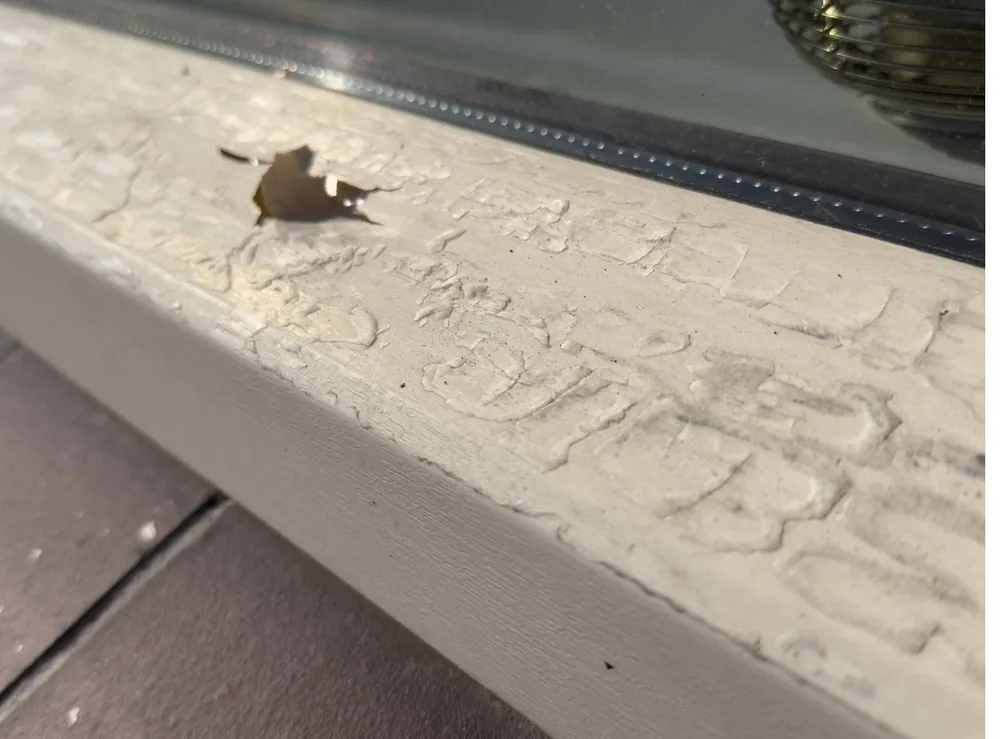
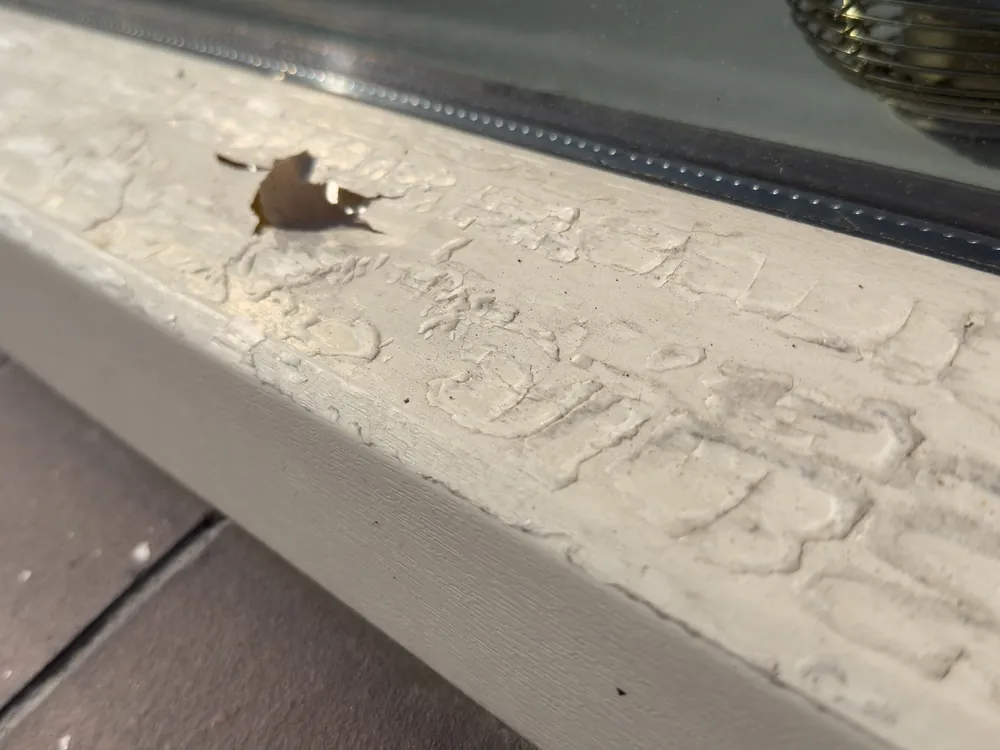
Voor- en nafoto van de dorpel op elkaar gelegd

diff --git a/kozijnherstel.html b/kozijnherstel.html
@@ -133,7 +133,7 @@
         <span class="ba-label">Voor</span>
         <picture>
           <source srcset="/images/kozijn-beschadigd.webp" type="image/webp">
-          <img src="/images/kozijn-beschadigd.jpg" alt="Kunststof dorpel waarvan de folie is verkleurd, gebarsten en op een plek losgetrokken" width="1000" height="739" loading="lazy" decoding="async">
+          <img src="/images/kozijn-beschadigd.jpg" alt="Kunststof dorpel waarvan de folie is verkleurd, gebarsten en op een plek losgetrokken" width="1000" height="750" loading="lazy" decoding="async">
         </picture>
         <figcaption>De folie is dof en gebarsten en laat op de hoeken los. Het kozijnprofiel zelf is nog gaaf.</figcaption>
       </figure>
@@ -141,7 +141,7 @@
         <span class="ba-label">Na</span>
         <picture>
           <source srcset="/images/kozijn-hersteld.webp" type="image/webp">
-          <img src="/images/kozijn-hersteld.jpg" alt="Dezelfde dorpel na herstel, met een gladde egale folielaag en zichtbare structuur" width="1000" height="739" loading="lazy" decoding="async">
+          <img src="/images/kozijn-hersteld.jpg" alt="Dezelfde dorpel na herstel: strak en egaal, met de houtnerf van de nieuwe folie" width="1000" height="750" loading="lazy" decoding="async">
         </picture>
         <figcaption>Nieuwe folie, strak aangebracht tot in de profielrand — inclusief de oorspronkelijke structuur.</figcaption>
       </figure>

diff --git a/src/pages/kozijnherstel.html b/src/pages/kozijnherstel.html
@@ -138,7 +138,7 @@
         <span class="ba-label">Voor</span>
         <picture>
           <source srcset="/images/kozijn-beschadigd.webp" type="image/webp">
-          <img src="/images/kozijn-beschadigd.jpg" alt="Kunststof dorpel waarvan de folie is verkleurd, gebarsten en op een plek losgetrokken" width="1000" height="739" loading="lazy" decoding="async">
+          <img src="/images/kozijn-beschadigd.jpg" alt="Kunststof dorpel waarvan de folie is verkleurd, gebarsten en op een plek losgetrokken" width="1000" height="750" loading="lazy" decoding="async">
         </picture>
         <figcaption>De folie is dof en gebarsten en laat op de hoeken los. Het kozijnprofiel zelf is nog gaaf.</figcaption>
       </figure>
@@ -146,7 +146,7 @@
         <span class="ba-label">Na</span>
         <picture>
           <source srcset="/images/kozijn-hersteld.webp" type="image/webp">
-          <img src="/images/kozijn-hersteld.jpg" alt="Dezelfde dorpel na herstel, met een gladde egale folielaag en zichtbare structuur" width="1000" height="739" loading="lazy" decoding="async">
+          <img src="/images/kozijn-hersteld.jpg" alt="Dezelfde dorpel na herstel: strak en egaal, met de houtnerf van de nieuwe folie" width="1000" height="750" loading="lazy" decoding="async">
         </picture>
         <figcaption>Nieuwe folie, strak aangebracht tot in de profielrand — inclusief de oorspronkelijke structuur.</figcaption>
       </figure>

diff --git a/blog/kozijn-onderdorpel-herstellen.html b/blog/kozijn-onderdorpel-herstellen.html
@@ -102,7 +102,7 @@
         <span class="ba-label">Voor</span>
         <picture>
           <source srcset="/images/kozijn-beschadigd.webp" type="image/webp">
-          <img src="/images/kozijn-beschadigd.jpg" alt="Onderdorpel van een kunststof kozijn waarvan de folie is gebarsten en losgetrokken" width="1000" height="739" loading="lazy" decoding="async">
+          <img src="/images/kozijn-beschadigd.jpg" alt="Onderdorpel van een kunststof kozijn waarvan de folie is gebarsten en losgetrokken" width="1000" height="750" loading="lazy" decoding="async">
         </picture>
         <figcaption>Alleen de dorpel is versleten: de folie is gebarsten en op een plek weggetrokken.</figcaption>
       </figure>
@@ -110,7 +110,7 @@
         <span class="ba-label">Na</span>
         <picture>
           <source srcset="/images/kozijn-hersteld.webp" type="image/webp">
-          <img src="/images/kozijn-hersteld.jpg" alt="Dezelfde onderdorpel na herstel, met een egale nieuwe folielaag" width="1000" height="739" loading="lazy" decoding="async">
+          <img src="/images/kozijn-hersteld.jpg" alt="Dezelfde onderdorpel na herstel, met een egale nieuwe folielaag" width="1000" height="750" loading="lazy" decoding="async">
         </picture>
         <figcaption>Dezelfde dorpel met nieuwe folie. Het kozijn is niet losgehaald en het glas heeft er niet uit gehoeven.</figcaption>
       </figure>

diff --git a/src/pages/blog/kozijn-onderdorpel-herstellen.html b/src/pages/blog/kozijn-onderdorpel-herstellen.html
@@ -76,7 +76,7 @@
         <span class="ba-label">Voor</span>
         <picture>
           <source srcset="/images/kozijn-beschadigd.webp" type="image/webp">
-          <img src="/images/kozijn-beschadigd.jpg" alt="Onderdorpel van een kunststof kozijn waarvan de folie is gebarsten en losgetrokken" width="1000" height="739" loading="lazy" decoding="async">
+          <img src="/images/kozijn-beschadigd.jpg" alt="Onderdorpel van een kunststof kozijn waarvan de folie is gebarsten en losgetrokken" width="1000" height="750" loading="lazy" decoding="async">
         </picture>
         <figcaption>Alleen de dorpel is versleten: de folie is gebarsten en op een plek weggetrokken.</figcaption>
       </figure>
@@ -84,7 +84,7 @@
         <span class="ba-label">Na</span>
         <picture>
           <source srcset="/images/kozijn-hersteld.webp" type="image/webp">
-          <img src="/images/kozijn-hersteld.jpg" alt="Dezelfde onderdorpel na herstel, met een egale nieuwe folielaag" width="1000" height="739" loading="lazy" decoding="async">
+          <img src="/images/kozijn-hersteld.jpg" alt="Dezelfde onderdorpel na herstel, met een egale nieuwe folielaag" width="1000" height="750" loading="lazy" decoding="async">
         </picture>
         <figcaption>Dezelfde dorpel met nieuwe folie. Het kozijn is niet losgehaald en het glas heeft er niet uit gehoeven.</figcaption>
       </figure>

diff --git a/blog/kozijn-vervangen-of-herstellen.html b/blog/kozijn-vervangen-of-herstellen.html
@@ -102,7 +102,7 @@
     <span class="ba-label">Folie versleten</span>
     <picture>
       <source srcset="/images/kozijn-beschadigd.webp" type="image/webp">
-      <img src="/images/kozijn-beschadigd.jpg" alt="Kozijndorpel met verkleurde, gebarsten folie die op een plek is losgetrokken" width="1000" height="739" loading="lazy" decoding="async">
+      <img src="/images/kozijn-beschadigd.jpg" alt="Kozijndorpel met verkleurde, gebarsten folie die op een plek is losgetrokken" width="1000" height="750" loading="lazy" decoding="async">
     </picture>
     <figcaption>Alleen de toplaag is versleten. Het profiel eronder is nog recht en gaaf — een geval voor herstel.</figcaption>
   </figure>
@@ -110,7 +110,7 @@
     <span class="ba-label">Na herstel</span>
     <picture>
       <source srcset="/images/kozijn-hersteld.webp" type="image/webp">
-      <img src="/images/kozijn-hersteld.jpg" alt="Dezelfde kozijndorpel na het aanbrengen van nieuwe folie, egaal en strak" width="1000" height="739" loading="lazy" decoding="async">
+      <img src="/images/kozijn-hersteld.jpg" alt="Dezelfde kozijndorpel na het aanbrengen van nieuwe folie, egaal en strak" width="1000" height="750" loading="lazy" decoding="async">
     </picture>
     <figcaption>Hetzelfde kozijn met een nieuwe toplaag. Er is niets gesloopt en niets vervangen.</figcaption>
   </figure>

diff --git a/src/pages/blog/kozijn-vervangen-of-herstellen.html b/src/pages/blog/kozijn-vervangen-of-herstellen.html
@@ -77,7 +77,7 @@
     <span class="ba-label">Folie versleten</span>
     <picture>
       <source srcset="/images/kozijn-beschadigd.webp" type="image/webp">
-      <img src="/images/kozijn-beschadigd.jpg" alt="Kozijndorpel met verkleurde, gebarsten folie die op een plek is losgetrokken" width="1000" height="739" loading="lazy" decoding="async">
+      <img src="/images/kozijn-beschadigd.jpg" alt="Kozijndorpel met verkleurde, gebarsten folie die op een plek is losgetrokken" width="1000" height="750" loading="lazy" decoding="async">
     </picture>
     <figcaption>Alleen de toplaag is versleten. Het profiel eronder is nog recht en gaaf — een geval voor herstel.</figcaption>
   </figure>
@@ -85,7 +85,7 @@
     <span class="ba-label">Na herstel</span>
     <picture>
       <source srcset="/images/kozijn-hersteld.webp" type="image/webp">
-      <img src="/images/kozijn-hersteld.jpg" alt="Dezelfde kozijndorpel na het aanbrengen van nieuwe folie, egaal en strak" width="1000" height="739" loading="lazy" decoding="async">
+      <img src="/images/kozijn-hersteld.jpg" alt="Dezelfde kozijndorpel na het aanbrengen van nieuwe folie, egaal en strak" width="1000" height="750" loading="lazy" decoding="async">
     </picture>
     <figcaption>Hetzelfde kozijn met een nieuwe toplaag. Er is niets gesloopt en niets vervangen.</figcaption>
   </figure>

diff --git a/blog/folie-kozijn-laat-los.html b/blog/folie-kozijn-laat-los.html
@@ -100,7 +100,7 @@
     <figure>
       <picture>
         <source srcset="/images/kozijn-beschadigd.webp" type="image/webp">
-        <img src="/images/kozijn-beschadigd.jpg" alt="Kunststof kozijndorpel waarvan de folie is opgekruld en op een plek helemaal is losgetrokken" width="1000" height="739" loading="lazy" decoding="async">
+        <img src="/images/kozijn-beschadigd.jpg" alt="Kunststof kozijndorpel waarvan de folie is opgekruld en op een plek helemaal is losgetrokken" width="1000" height="750" loading="lazy" decoding="async">
       </picture>
       <figcaption>Zo ziet het er in de praktijk uit: de folie bladdert over een groot vlak en is op één plek helemaal losgetrokken. Het profiel eronder is nog volledig gaaf.</figcaption>
     </figure>

diff --git a/src/pages/blog/folie-kozijn-laat-los.html b/src/pages/blog/folie-kozijn-laat-los.html
@@ -74,7 +74,7 @@
     <figure>
       <picture>
         <source srcset="/images/kozijn-beschadigd.webp" type="image/webp">
-        <img src="/images/kozijn-beschadigd.jpg" alt="Kunststof kozijndorpel waarvan de folie is opgekruld en op een plek helemaal is losgetrokken" width="1000" height="739" loading="lazy" decoding="async">
+        <img src="/images/kozijn-beschadigd.jpg" alt="Kunststof kozijndorpel waarvan de folie is opgekruld en op een plek helemaal is losgetrokken" width="1000" height="750" loading="lazy" decoding="async">
       </picture>
       <figcaption>Zo ziet het er in de praktijk uit: de folie bladdert over een groot vlak en is op één plek helemaal losgetrokken. Het profiel eronder is nog volledig gaaf.</figcaption>
     </figure>

diff --git a/blog/kozijnen-laten-wrappen.html b/blog/kozijnen-laten-wrappen.html
@@ -103,7 +103,7 @@
     <figure>
   <picture>
     <source srcset="/images/kozijn-hersteld.webp" type="image/webp">
-    <img src="/images/kozijn-hersteld.jpg" alt="Een kozijndorpel met een strak aangebrachte folielaag, egaal en zonder naden of luchtbellen" width="1000" height="739" loading="lazy" decoding="async">
+    <img src="/images/kozijn-hersteld.jpg" alt="Een kozijndorpel met een strak aangebrachte folielaag, egaal en zonder naden of luchtbellen" width="1000" height="750" loading="lazy" decoding="async">
   </picture>
   <figcaption>Een strak aangebrachte folielaag loopt door tot in de profielrand — geen penseelstreken, geen rollerstructuur, geen zichtbare naad.</figcaption>
 </figure>

diff --git a/src/pages/blog/kozijnen-laten-wrappen.html b/src/pages/blog/kozijnen-laten-wrappen.html
@@ -78,7 +78,7 @@
     <figure>
   <picture>
     <source srcset="/images/kozijn-hersteld.webp" type="image/webp">
-    <img src="/images/kozijn-hersteld.jpg" alt="Een kozijndorpel met een strak aangebrachte folielaag, egaal en zonder naden of luchtbellen" width="1000" height="739" loading="lazy" decoding="async">
+    <img src="/images/kozijn-hersteld.jpg" alt="Een kozijndorpel met een strak aangebrachte folielaag, egaal en zonder naden of luchtbellen" width="1000" height="750" loading="lazy" decoding="async">
   </picture>
   <figcaption>Een strak aangebrachte folielaag loopt door tot in de profielrand — geen penseelstreken, geen rollerstructuur, geen zichtbare naad.</figcaption>
 </figure>
